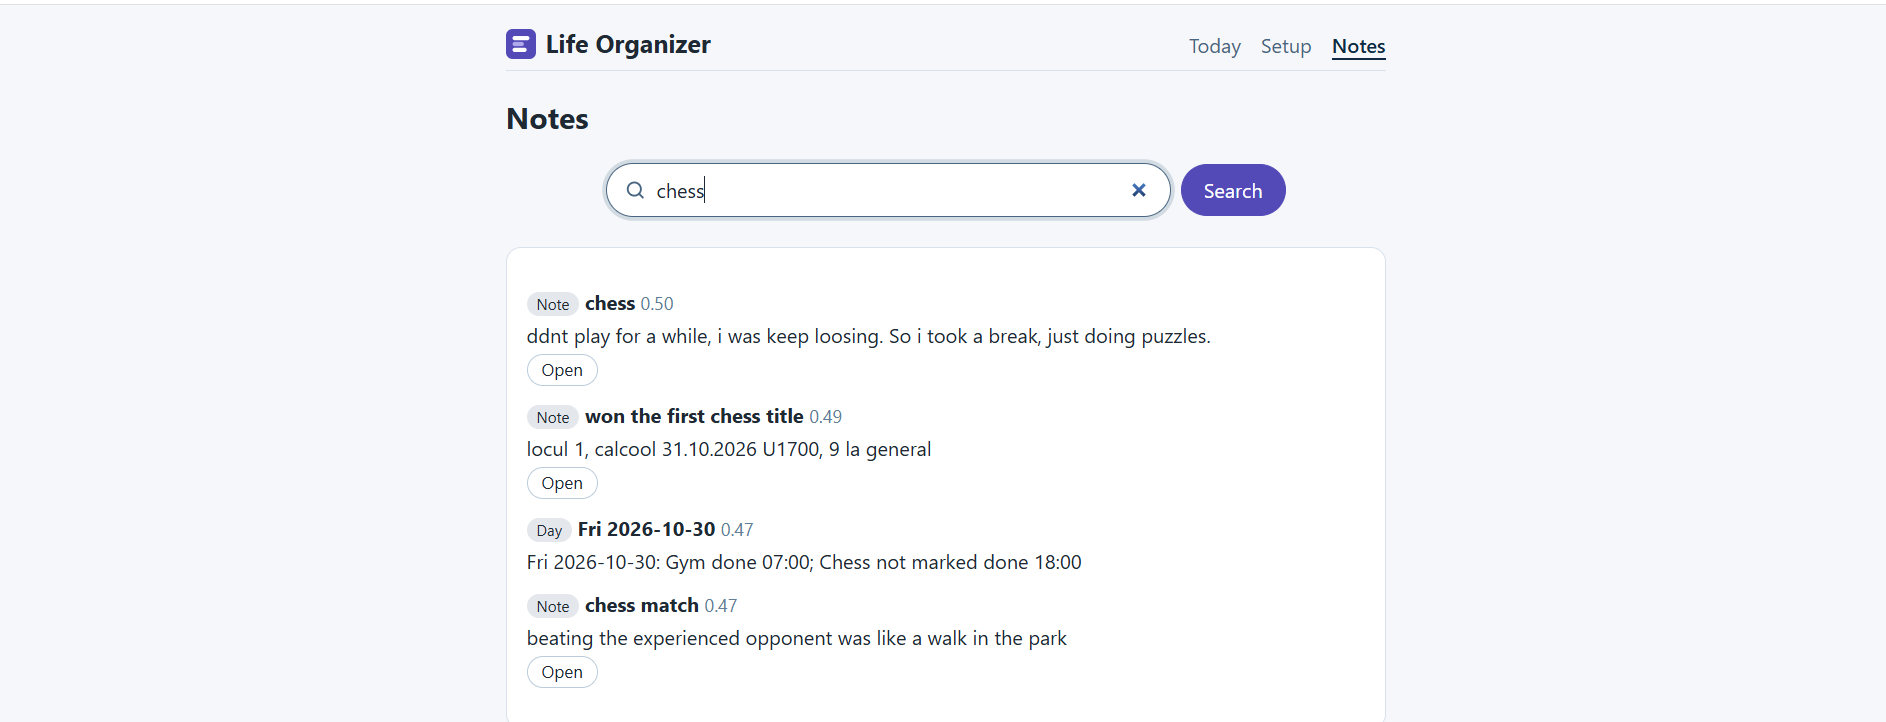
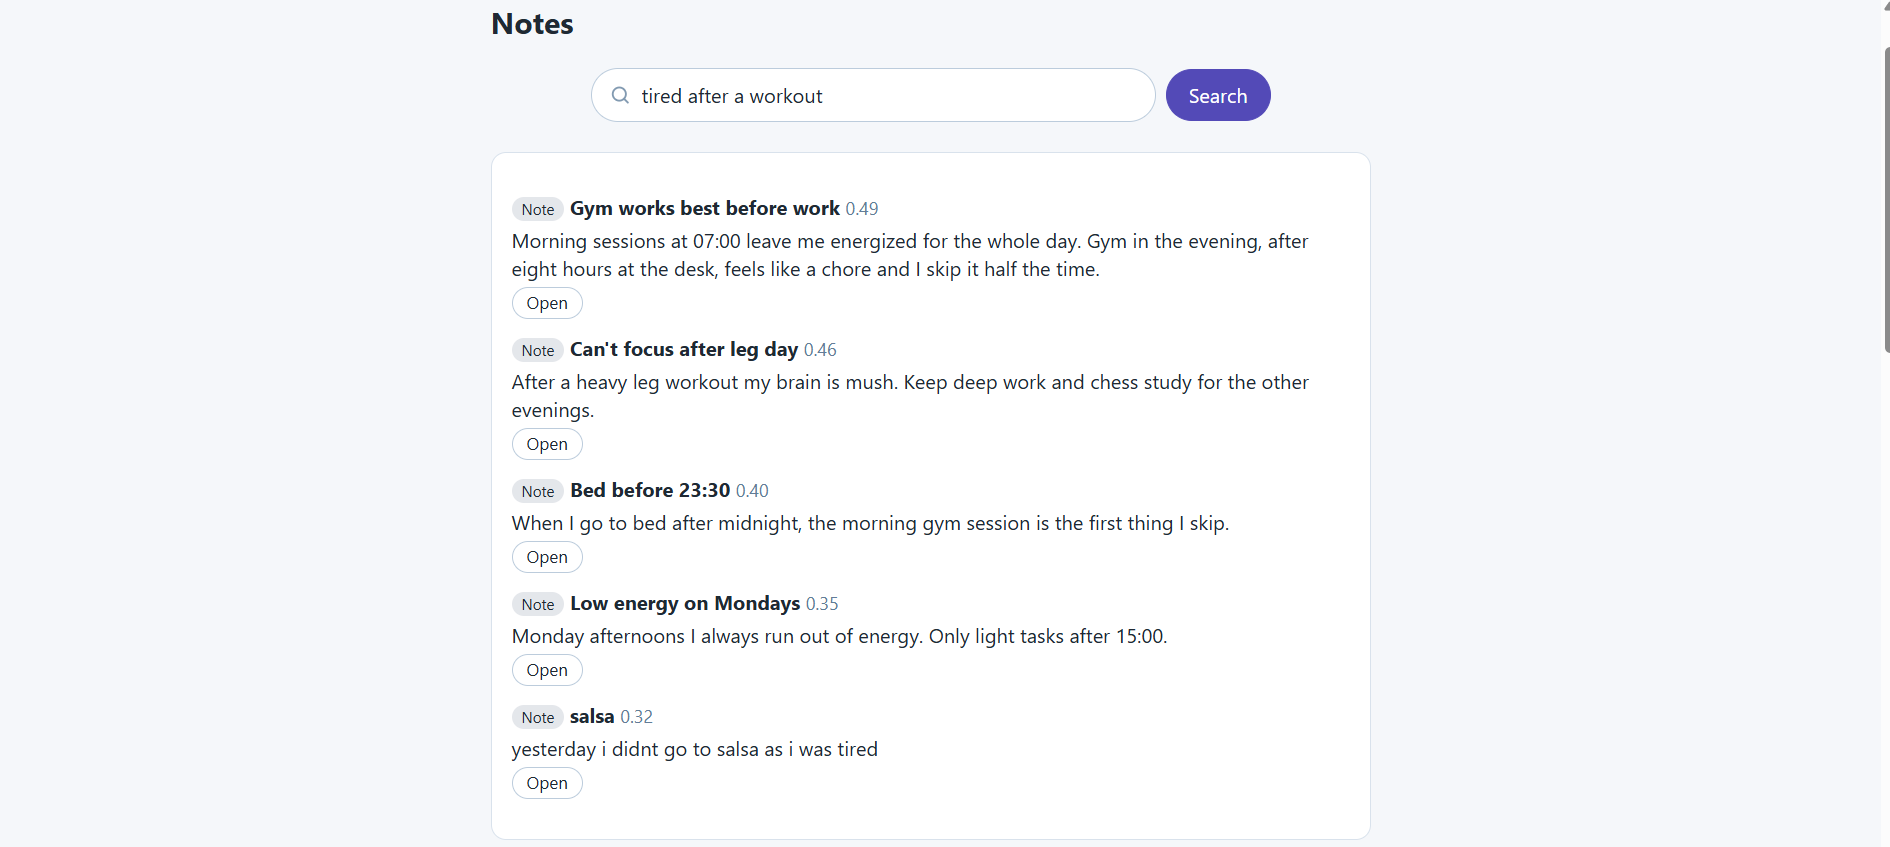
docs: refresh README screenshots and log the sleep-name backlog item
Retaken Today, notes search and fixed-blocks screenshots (no stale warning,
clean demo notes), plus the sticky-note board. Backlog: the planner finds
the sleep window only by the block name "Sleep".

diff --git a/docs/BACKLOG.md b/docs/BACKLOG.md
@@ -47,3 +47,16 @@ Entry format: title, date found, problem with evidence, fix idea, size (small / 
   could each persist a diff against stale blocks. Single user on localhost, so unlikely.
 - **Fix idea:** take the same lock in `applyEvents`, with a `@SpringBootTest` that runs two calls in parallel.
 - **Size:** small.
+
+## Sleep is recognized by its name only
+
+- **Found:** 2026-10-31, while taking README screenshots.
+- **Problem:** `DayScheduler.findSleepBlock` picks the fixed block whose label equals "sleep" (case-insensitive).
+  A block named `Sleep1` was not recognized: the day fell back to 07:00-23:00 and every generated day stored the
+  warning "Skipping overnight block 'Sleep1' ... (only Sleep supports overnight ranges)". Renaming it to `Sleep`
+  fixes only days generated afterwards; days already stored keep the old blocks and warning, because days are
+  never regenerated. Nothing in the Setup form tells the user that the name matters.
+- **Fix idea:** treat any overnight fixed block as the sleep window (at most one allowed, checked in
+  `SetupService`), or add an explicit "this is my sleep" choice in the form. At least say in the form that an
+  overnight block must be called Sleep.
+- **Size:** small for the form hint; medium for the overnight-block rule (engine plus setup validation).

diff --git a/README.md b/README.md
@@ -17,11 +17,15 @@ showing exactly what would change; nothing happens until Apply.
 
 ![Assistant chat with a proposal card and Apply / Reject buttons](docs/screenshots/today-proposal.png)
 
-| Today's plan | Semantic search over notes and past days |
+| Today's plan | Semantic search: "tired after a workout" |
 |---|---|
-| ![Today's timeline with done, cancelled and free blocks](docs/screenshots/today-plan.png) | ![Searching "chess" finds related notes and a past-day summary](docs/screenshots/notes-search.png) |
+| ![Today's timeline with done, cancelled and free blocks](docs/screenshots/today-plan.png) | ![Searching "tired after a workout" finds notes about gym, leg day and sleep without sharing those words](docs/screenshots/notes-search.png) |
 | **Setup: goals with hours per week** | **Setup: fixed blocks** |
 | ![Goals grouped by category, each with hours per week](docs/screenshots/setup-goals.png) | ![Fixed blocks such as work and sleep, with weekdays](docs/screenshots/setup-fixed-blocks.png) |
+
+**Your notes** — saved notes are what the assistant and the search draw on.
+
+![Notes shown as pinned sticky notes](docs/screenshots/notes-board.png)
 
 ## What is in it
 
